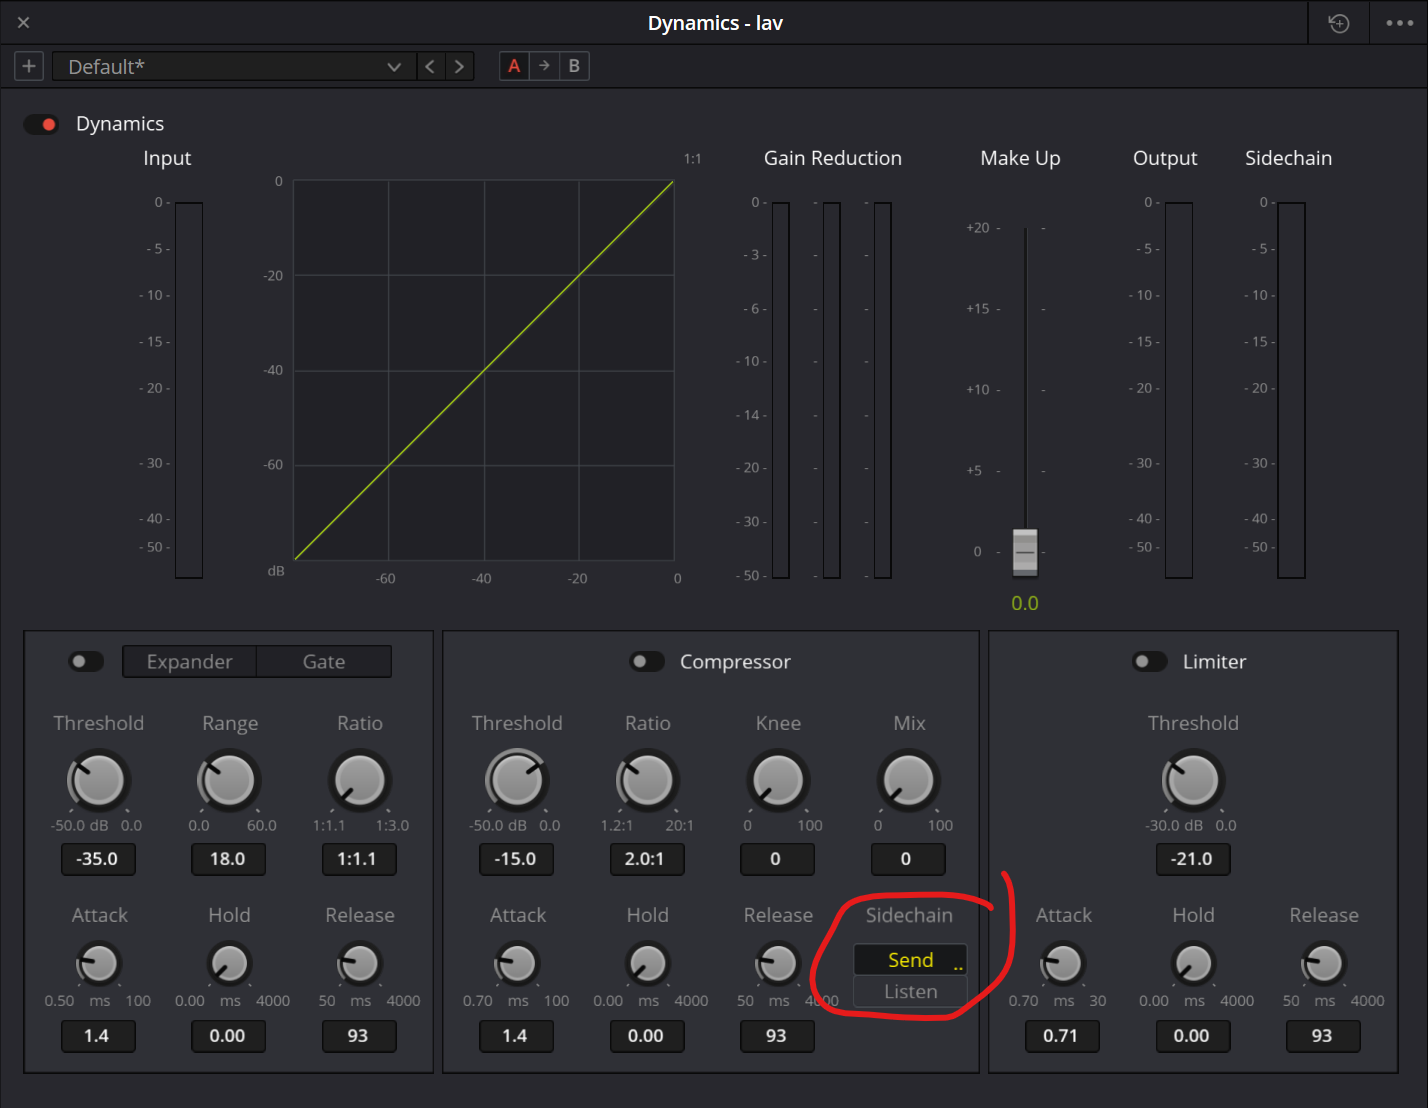
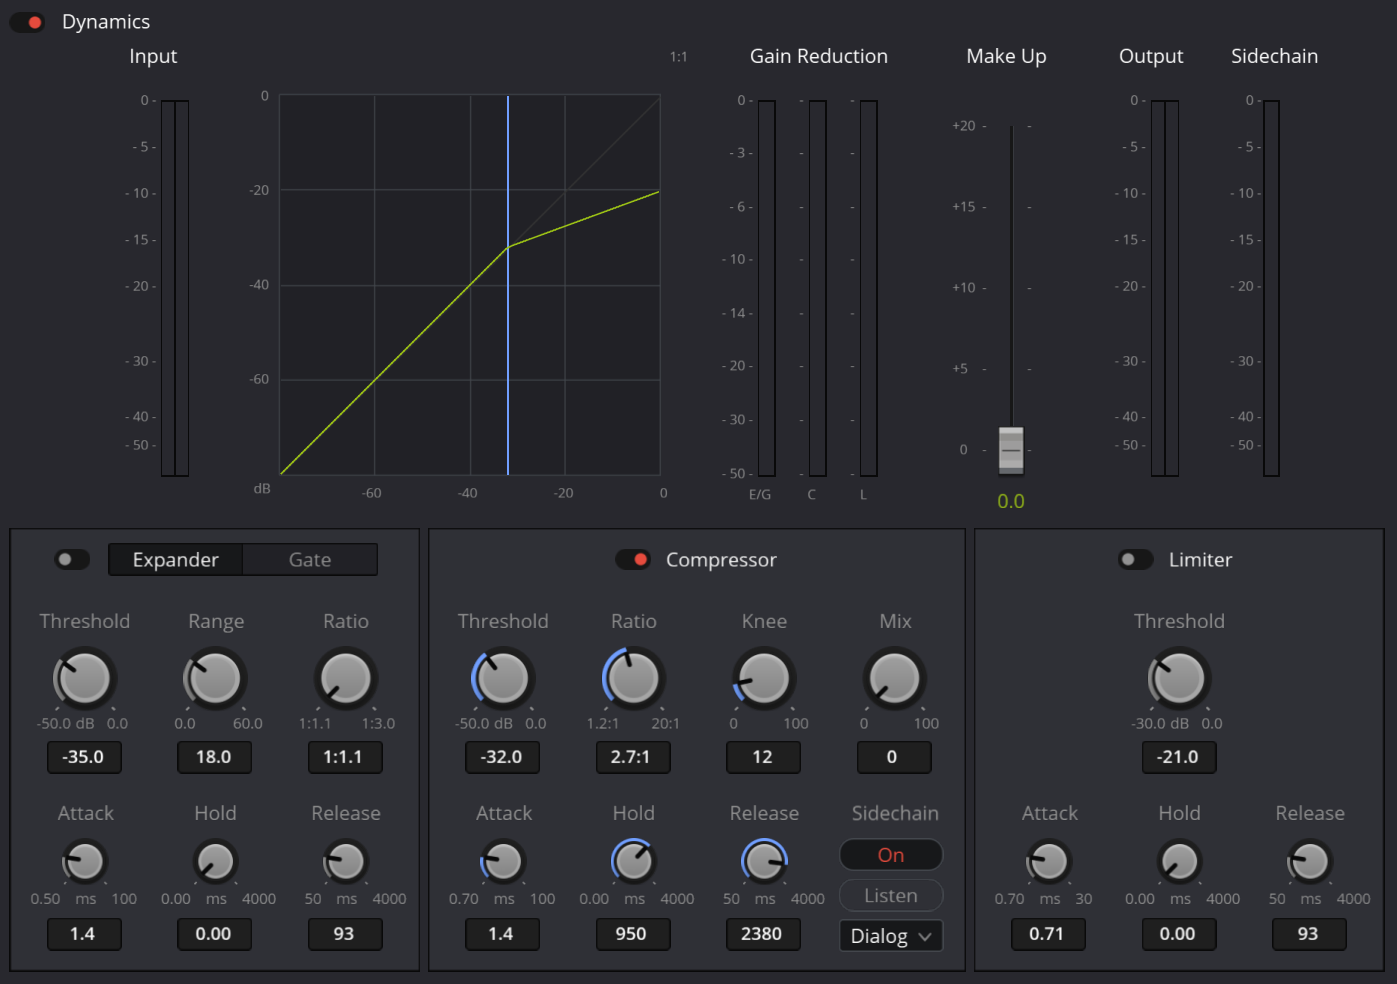
💾 obsidian

diff --git a/content/How to Duck Audio in Davinci Resolve.md b/content/How to Duck Audio in Davinci Resolve.md
@@ -2,18 +2,14 @@
 tags:
   - evergreen
 plantedAt: 2024-06-25
-lastTendedAt: 2024-07-26
+lastTendedAt: 2025-06-18
 ---
-Open the *Dynamics* panel for each dialogue audio source.
+Open the *Dynamics* panel for each dialogue audio source. Send that to a *Dialogue* bus.
+
+Open *Dynamics* on the music soundtrack to set the *Compressor* settings.
 
 ![[dynamics_sidechain.png]]
 
-Click the *Send* to send that audio information to the sidechain.
-
-Lower the base music volume to ~ -18 dB
+Lower the base music volume to ~ -16 dB
 
 ![[music_level.png]]
-
-Open the music track *Dynamics* panel and set the compressor to *Listen* to the sidechain and to compress the audio with the following settings:
-
-![[music_compression.png]]
